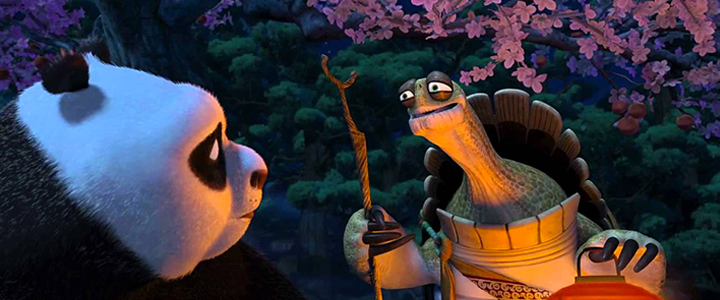
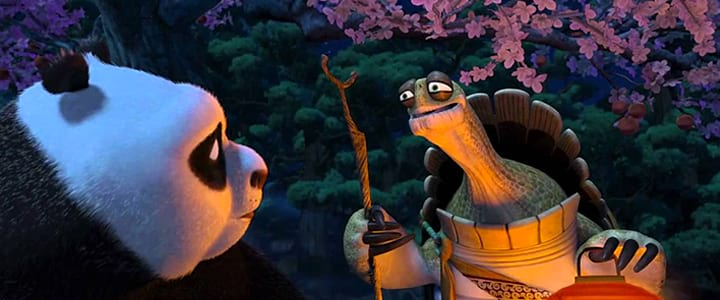
img opti

diff --git a/index.html b/index.html
@@ -15,8 +15,8 @@
 
   <link rel="stylesheet" type="text/css" media="screen and (min-width: 780px)" href="style/largescreen.css">
   <link rel="stylesheet" type="text/css" media="screen and (min-width: 320px) and (max-width: 779px)" href="style/smallscreen.css">
-  <link href="https://fonts.googleapis.com/css?family=Crimson+Text" rel="stylesheet">
-  <link href="https://fonts.googleapis.com/css?family=Lato" rel="stylesheet">
+  <link  href="https://fonts.googleapis.com/css?family=Crimson+Text" rel="stylesheet">
+  <link  href="https://fonts.googleapis.com/css?family=Lato" rel="stylesheet">
 
   <title>Accessibilité</title>
 
@@ -54,7 +54,7 @@
 
           <figure>
             <a href="#" title="image">
-                <img src="img/img1.jpg" alt="Ooway talking to Poo by night" />
+                <img src="img/img1.jpg" width="780px" height="308px" alt="Ooway talking to Poo by night" />
             </a>
             <figcaption>Image from the movie "Kung Fu Panda"</figcaption>
           </figure>
@@ -90,7 +90,7 @@
           </p>
 
           <figure>
-            <a href="#" title="image"><img src="img/img2.jpg" alt="Oogway by night"></a>
+            <a href="#" title="image"><img width="740px" height="308px" src="img/img2.jpg" alt="Oogway by night"></a>
             <figcaption>Image from the movie "Kung Fu Panda"</figcaption>
           </figure>
 
@@ -129,7 +129,7 @@
 
               <div class="comment" role="listitem" aria-label="item comment">
                 <div class="author-commentimg" role="figure"  aria-label="authors's picture">
-                  <img src="img/author1.png" alt="Jane Doe">
+                  <img width="72px" height="72px" src="img/author1.png" alt="Jane Doe">
                 </div>
                 <div class="comment-description" role="article" aria-label="comment content">
                   <p class="comments-author">Shalvika Sood</p>
@@ -141,7 +141,7 @@
 
               <div class="comment" role="listitem" aria-label="item comment">
                 <div class="author-commentimg"  role="figure"  aria-label="authors's picture">
-                  <img src="img/author2.png" alt="Jane Doe">
+                  <img width="72px" height="72px" src="img/author2.png" alt="Jane Doe">
                 </div>
                 <div class="comment-description" role="article" aria-label="comment content">
                   <p class="comments-author">Jonathan Hetcher</p>
@@ -153,7 +153,7 @@
 
               <div class="comment" role="listitem" aria-label="item comment">
                 <div class="author-commentimg" role="figure"  aria-label="authors's picture">
-                  <img src="img/author3.png" alt="Jane Doe">
+                  <img width="72px" height="72px" src="img/author3.png" alt="Jane Doe">
                 </div>
                 <div class="comment-description" role="article" aria-label="comment content">
                   <p class="comments-author">Matthew Lenneman</p>
